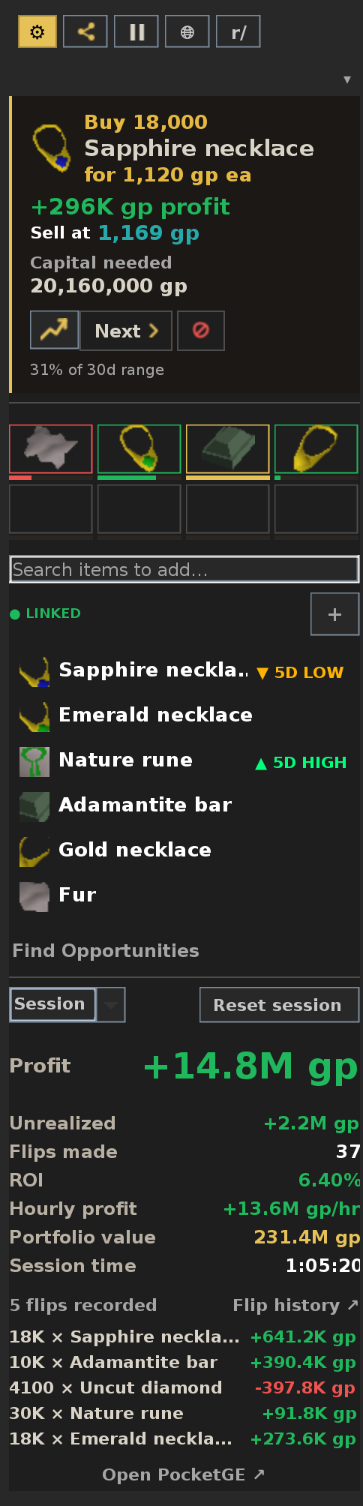
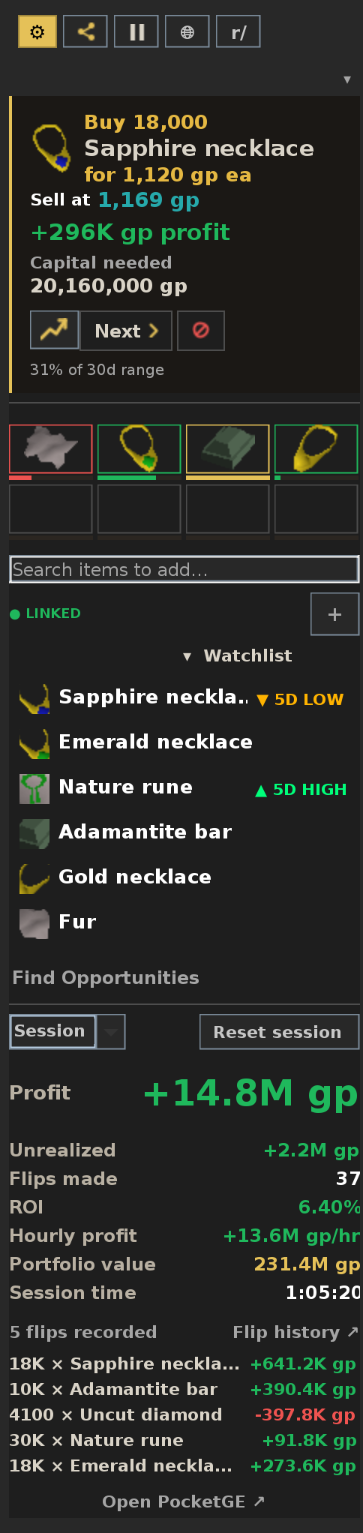
Surface the profit floor, collapse the watchlist, reorder the card
MIN. PROFIT PER SUGGESTION reaches the gear popup. The setting itself has
existed since it was built to mirror Copilot's, with the same ladder —
Auto, 20K, 50K, 100K, 200K, 500K, 1M — and it was wired through to
Advisor.advise all along. It just lived only in RuneLite's own plugin
settings, behind the wrench, which is not where anyone looks for it: the
popup with the advisor toggle and the re-check interval in it is. A
dropdown rather than a segmented row, because seven of those buttons want
about 263px and the popup has roughly 220.

THE WATCHLIST COLLAPSES. It grows without limit and sits above the stats,
the flip list and everything under them, so a dozen starred items push
the bottom half of the sidebar off-screen with no way to put it away
short of un-starring things. Same handle as the opportunity groups and
the card section — chevron, click the line, open state brightens — with
the count on it, since collapsed that is the only thing left saying how
much is in there.

Drag-to-resize, the other half of that request, is NOT here. It needs a
scroll region nested inside the sidebar's own, and MainPanel's wheel
forwarder consumes every wheel event over the panel to drive the outer
bar — so a nested one would never scroll. That forwarder has to be taught
about it first, which is its own piece of work rather than something to
bolt on.

THE CARD reads buy, sell, profit. The green figure sat between the buy
[…]

diff --git a/src/main/java/com/pocketge/tracker/AdvisorPanel.java b/src/main/java/com/pocketge/tracker/AdvisorPanel.java
@@ -31,6 +31,7 @@ import javax.swing.Icon;
 import javax.swing.ImageIcon;
 import javax.swing.JButton;
 import javax.swing.JCheckBox;
+import javax.swing.JComboBox;
 import javax.swing.JLabel;
 import javax.swing.JMenuItem;
 import javax.swing.JPanel;
@@ -117,6 +118,10 @@ public class AdvisorPanel extends PluginPanel
 		void unblock(String itemName);
 		void toggleFavorite(int itemId, String name);
 		void setAdjustInterval(PocketGeTrackerConfig.AdjustInterval v);
+		/** The floor under a buy idea's whole-limit profit. Lived only in
+		 *  RuneLite's own plugin settings, which is not where anyone looks
+		 *  for it — this popup is. */
+		void setMinProfit(PocketGeTrackerConfig.MinProfit v);
 		void setAdvisorEnabled(boolean on);
 		void setLocalBridge(boolean on);
 		void setBridgePort(int port);
@@ -163,6 +168,7 @@ public class AdvisorPanel extends PluginPanel
 	{
 		public boolean advisorOn;
 		public PocketGeTrackerConfig.AdjustInterval interval = PocketGeTrackerConfig.AdjustInterval.M5;
+		public PocketGeTrackerConfig.MinProfit minProfit = PocketGeTrackerConfig.MinProfit.AUTO;
 		public List<String> blocked = List.of();
 		public boolean bridgeOn;
 		public int bridgePort = 8477;
@@ -456,6 +462,9 @@ public class AdvisorPanel extends PluginPanel
 		content.add(controlRow("Re-check every", intervalRow()));
 		content.add(Box.createVerticalStrut(8));
 
+		content.add(controlRow("Min. profit per suggestion", minProfitRow()));
+		content.add(Box.createVerticalStrut(8));
+
 		JLabel blkTitle = new JLabel("Never recommend");
 		blkTitle.setForeground(GOLD);
 		blkTitle.setAlignmentX(0f);
@@ -596,6 +605,37 @@ public class AdvisorPanel extends PluginPanel
 			b.addActionListener(e -> actions.setAdjustInterval(v));
 			row.add(b);
 		}
+		return row;
+	}
+
+	/**
+	 * The minimum-profit floor.
+	 *
+	 * A dropdown rather than the segmented row "Re-check every" uses: seven
+	 * options at that button size want about 263px and the popup has roughly
+	 * 220, so they would either wrap or squeeze the labels past reading.
+	 */
+	private JPanel minProfitRow()
+	{
+		final JPanel row = new JPanel(new BorderLayout());
+		row.setOpaque(false);
+		final JComboBox<PocketGeTrackerConfig.MinProfit> box =
+			new JComboBox<>(PocketGeTrackerConfig.MinProfit.values());
+		box.setSelectedItem(settings.minProfit);
+		box.setFont(box.getFont().deriveFont(11f));
+		box.setToolTipText("<html>Buy ideas whose whole-limit profit lands under this, after tax, are not offered."
+			+ "<br>Auto keeps the plugin's own low floor and always shows you something."
+			+ "<br>Anything else is a hard floor \u2014 with a big number and a small bank"
+			+ "<br>the suggestions can legitimately run dry, and that empty panel is the answer.");
+		box.addActionListener(e ->
+		{
+			final Object v = box.getSelectedItem();
+			if (v instanceof PocketGeTrackerConfig.MinProfit)
+			{
+				actions.setMinProfit((PocketGeTrackerConfig.MinProfit) v);
+			}
+		});
+		row.add(box, BorderLayout.CENTER);
 		return row;
 	}
 
@@ -1895,32 +1935,12 @@ public class AdvisorPanel extends PluginPanel
 
 		if (c.profitValue != null)
 		{
-			p.add(leftStrut(4));
-			/* The money and the price that produces it, side by side but not
-			   the same weight: a buy card names the price to BID at, then a
-			   green number that is only true at some other price. Without the
-			   exit there is nothing on the card to check the profit against.
-
-			   A row rather than one string, because the two want different
-			   sizes — 15f bold for the money, 11f grey for the price — and
-			   because a long price then costs the layout a wrap rather than
-			   widening the sidebar. */
-			final JPanel money = new JPanel();
-			money.setLayout(new BoxLayout(money, BoxLayout.X_AXIS));
-			money.setOpaque(false);
-			money.setAlignmentX(0f);
-			JLabel profitLabel = new JLabel(moneyLine(c));
-			profitLabel.setForeground(c.profitColor != null ? c.profitColor
-				: c.profitValue >= 0 ? POSITIVE : NEGATIVE);
-			profitLabel.setFont(profitLabel.getFont().deriveFont(Font.BOLD, 15f));
-			profitLabel.setAlignmentY(0.5f);
-			if (c.profitTooltip != null)
-			{
-				profitLabel.setToolTipText(c.profitTooltip);
-			}
-			money.add(profitLabel);
-			money.add(Box.createHorizontalGlue());
-			p.add(money);
+			/* Order: what you pay, then what you sell at, then what that leaves.
+			   The profit used to sit between the buy price and the sell price,
+			   which put the conclusion in the middle of its own working — the
+			   green number is only true at the price on the line BELOW it. Read
+			   top to bottom it is now the arithmetic in the order you would say
+			   it out loud. */
 			if (c.exitPrice > 0)
 			{
 				/* Readable, and in the SELL colour.
@@ -1964,6 +1984,32 @@ public class AdvisorPanel extends PluginPanel
 				exit.add(Box.createHorizontalGlue());
 				p.add(exit);
 			}
+			p.add(leftStrut(4));
+			/* The money and the price that produces it, side by side but not
+			   the same weight: a buy card names the price to BID at, then a
+			   green number that is only true at some other price. Without the
+			   exit there is nothing on the card to check the profit against.
+
+			   A row rather than one string, because the two want different
+			   sizes — 15f bold for the money, 11f grey for the price — and
+			   because a long price then costs the layout a wrap rather than
+			   widening the sidebar. */
+			final JPanel money = new JPanel();
+			money.setLayout(new BoxLayout(money, BoxLayout.X_AXIS));
+			money.setOpaque(false);
+			money.setAlignmentX(0f);
+			JLabel profitLabel = new JLabel(moneyLine(c));
+			profitLabel.setForeground(c.profitColor != null ? c.profitColor
+				: c.profitValue >= 0 ? POSITIVE : NEGATIVE);
+			profitLabel.setFont(profitLabel.getFont().deriveFont(Font.BOLD, 15f));
+			profitLabel.setAlignmentY(0.5f);
+			if (c.profitTooltip != null)
+			{
+				profitLabel.setToolTipText(c.profitTooltip);
+			}
+			money.add(profitLabel);
+			money.add(Box.createHorizontalGlue());
+			p.add(money);
 		}
 
 		if (c.capital > 0)

diff --git a/src/main/java/com/pocketge/tracker/FavoritesPanel.java b/src/main/java/com/pocketge/tracker/FavoritesPanel.java
@@ -44,6 +44,8 @@ import net.runelite.client.util.QuantityFormatter;
 public class FavoritesPanel extends JPanel
 {
 	private static final Color HOVER_BG = new Color(0x3A, 0x33, 0x28);
+	/** The panel's body text, reused for the open collapse handle. */
+	private static final Color ROW_TEXT = new Color(0xD9, 0xD3, 0xC7);
 	/** The site's own .rl-dot.on green, so the two badges match exactly. */
 	private static final Color LINKED_GREEN = new Color(0x1F, 0xB8, 0x5C);
 	/* Same colors as the website's .hl-badge.high5d / .low5d. */
@@ -181,6 +183,9 @@ public class FavoritesPanel extends JPanel
 	private Timer searchDebounce;
 	private final JPanel listBar = new JPanel(new BorderLayout(4, 0));
 	private final JPanel rows = new JPanel();
+	/** The collapse handle over the watchlist, and whether it is open. */
+	private final JLabel listToggle = new JLabel();
+	private boolean rowsOpen = true;
 	/** Timers driving the 5-day-extreme glow on rows currently shown — every
 	 *  {@link #update} throws away the old row panels, so their timers must
 	 *  be stopped too or they'd keep ticking (and holding those panels alive)
@@ -227,9 +232,53 @@ public class FavoritesPanel extends JPanel
 		north.add(listBar);
 		add(north, BorderLayout.NORTH);
 
+		/*
+		 * A collapse handle over the list.
+		 *
+		 * The watchlist grows without limit and sits above the stats, the flip
+		 * list and everything else, so a dozen starred items push the whole
+		 * bottom half of the sidebar off-screen — and there was no way to put
+		 * it away short of un-starring things.
+		 *
+		 * Same affordance as the finder's groups and the card section: chevron,
+		 * click the line, and the open state brightens. The count rides along
+		 * because collapsed it is the only thing left saying how much is in
+		 * there.
+		 */
+		listToggle.setFont(listToggle.getFont().deriveFont(11f));
+		listToggle.setBorder(BorderFactory.createEmptyBorder(2, 0, 2, 0));
+		listToggle.setCursor(Cursor.getPredefinedCursor(Cursor.HAND_CURSOR));
+		listToggle.setAlignmentX(0f);
+		listToggle.addMouseListener(new java.awt.event.MouseAdapter()
+		{
+			@Override
+			public void mouseClicked(java.awt.event.MouseEvent e)
+			{
+				rowsOpen = !rowsOpen;
+				rows.setVisible(rowsOpen);
+				paintListToggle();
+				revalidate();
+				repaint();
+			}
+		});
+		north.add(listToggle);
+
 		rows.setLayout(new BoxLayout(rows, BoxLayout.Y_AXIS));
 		rows.setOpaque(false);
+		rows.setVisible(rowsOpen);
 		add(rows, BorderLayout.CENTER);
+		paintListToggle();
+	}
+
+	/** Chevron, weight and colour following the open state — the same three
+	 *  signals the opportunity groups use, so one habit covers both. */
+	private void paintListToggle()
+	{
+		final int n = rows.getComponentCount();
+		listToggle.setText((rowsOpen ? "\u25BE  " : "\u25B8  ") + "Watchlist"
+			+ (n > 0 ? "  \u00b7  " + n : ""));
+		listToggle.setForeground(rowsOpen ? ROW_TEXT : ColorScheme.LIGHT_GRAY_COLOR);
+		listToggle.setFont(listToggle.getFont().deriveFont(rowsOpen ? Font.BOLD : Font.PLAIN, 11f));
 	}
 
 	/** Search-to-add box — matches the website's own search bar: type an item

diff --git a/src/main/java/com/pocketge/tracker/MainPanel.java b/src/main/java/com/pocketge/tracker/MainPanel.java
@@ -68,6 +68,8 @@ public class MainPanel extends PluginPanel
 		/** See FinderPanel.Actions.inspectItem. */
 		void inspectItem(int itemId, String name);
 		void setAdjustInterval(PocketGeTrackerConfig.AdjustInterval v);
+		/** See AdvisorPanel.Actions.setMinProfit. */
+		void setMinProfit(PocketGeTrackerConfig.MinProfit v);
 		void setAdvisorEnabled(boolean on);
 		void setLocalBridge(boolean on);
 		void setBridgePort(int port);
@@ -156,6 +158,7 @@ public class MainPanel extends PluginPanel
 			@Override public void unblock(String itemName) { actions.unblock(itemName); }
 			@Override public void toggleFavorite(int itemId, String name) { actions.toggleFavorite(itemId, name); }
 			@Override public void setAdjustInterval(PocketGeTrackerConfig.AdjustInterval v) { actions.setAdjustInterval(v); }
+			@Override public void setMinProfit(PocketGeTrackerConfig.MinProfit v) { actions.setMinProfit(v); }
 			@Override public void setAdvisorEnabled(boolean on) { actions.setAdvisorEnabled(on); }
 			@Override public void setLocalBridge(boolean on) { actions.setLocalBridge(on); }
 			@Override public void setBridgePort(int port) { actions.setBridgePort(port); }

diff --git a/src/main/java/com/pocketge/tracker/PocketGeTrackerPlugin.java b/src/main/java/com/pocketge/tracker/PocketGeTrackerPlugin.java
@@ -664,6 +664,17 @@ public class PocketGeTrackerPlugin extends Plugin
 			}
 
 			@Override
+			public void setMinProfit(PocketGeTrackerConfig.MinProfit v)
+			{
+				/* Same shape as the interval above: the config write fires
+				   ConfigChanged, and the recompute is so the list re-ranks
+				   against the new floor while the popup is still open rather
+				   than at the next scheduled tick. */
+				config.setMinProfit(v);
+				recomputeAdvice();
+			}
+
+			@Override
 			public void setAdvisorEnabled(boolean on)
 			{
 				/* Fires ConfigChanged -> onConfigChanged() -> syncAdvisor(),
@@ -3680,6 +3691,7 @@ public class PocketGeTrackerPlugin extends Plugin
 		s.bridgeOn = config.localBridge();
 		s.bridgePort = config.bridgePort();
 		s.maxFlips = config.maxFlips();
+		s.minProfit = config.minProfit();
 		s.confirmBlock = config.confirmBlock();
 		final long polledAt = bridge != null ? bridge.lastPollAt() : 0;
 		s.bridgeClientAgeSec = polledAt > 0 ? (System.currentTimeMillis() - polledAt) / 1000 : -1;
